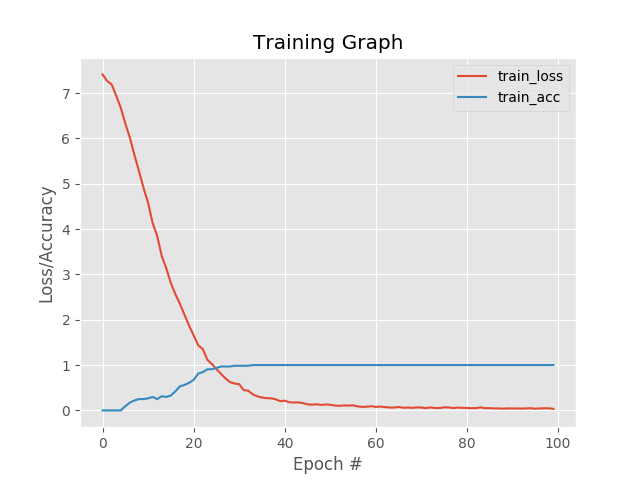
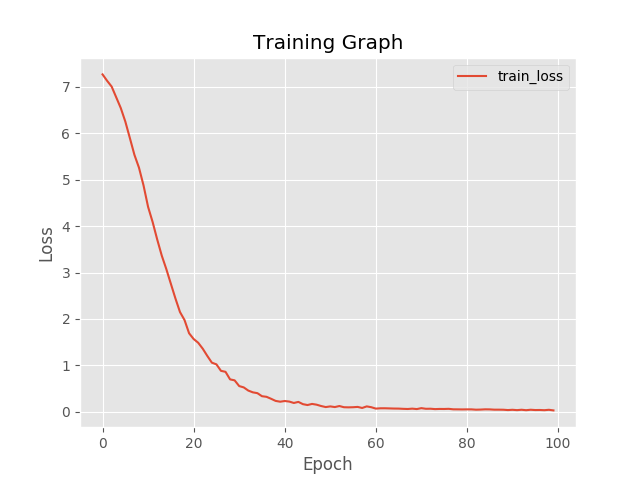
Graphs

diff --git a/MobileNet_Model.py b/MobileNet_Model.py
@@ -21,11 +21,11 @@ args = vars(ap.parse_args())
 G = args["gpus"]
 
 NUM_EPOCHS = 100
-INIT_LR= 0.001
+INIT_LR= 0.1
 alpha = 1
-batch_size = 64
+batch_size = 128
 logfile = "evaluation_log_2.txt"
-graph_dir = "Graphs/minibatches64/"
+graph_dir = "Graphs/minibatches128/"
 
 # create the base pre-trained model
 if G<= 1:
@@ -96,20 +96,23 @@ while 1:
         plt.style.use('ggplot')
         plt.figure()
         plt.plot(N, H['loss'], label= 'train_loss')
-        plt.plot(N, H['acc'], label= 'train_acc')
         plt.title("Training Graph")
-        plt.xlabel('Epoch #')
-        plt.ylabel('Loss/Accuracy')
+        plt.xlabel('Epoch')
+        plt.ylabel('Loss')
         plt.legend()
-        plt.savefig(graph_dir + "training" + str(counter2) + "_" + str(counter))
+        plt.savefig(graph_dir + "training" + str(counter) + "_" + str(counter2))
 
         counter2 = counter2 + 1
-
+    
+    open(logfile, 'a').write("reached checkpoint 1")
     print("[INFO] Saving Model ...")
     saved_model.save_keras_model(model, "Saved_Model_3")
 
+    open(logfile, 'a').write("reached checkpoint2")
     print("[INFO] Testing Model ...")
     H = model.evaluate(x_test, y_test, verbose=1)
+   
+    open(logfile, 'a').write("reached checkpoint3")
 
     with open(logfile, 'a') as myfile:
         myfile.write("batch number: " + str(counter) + '\n')
